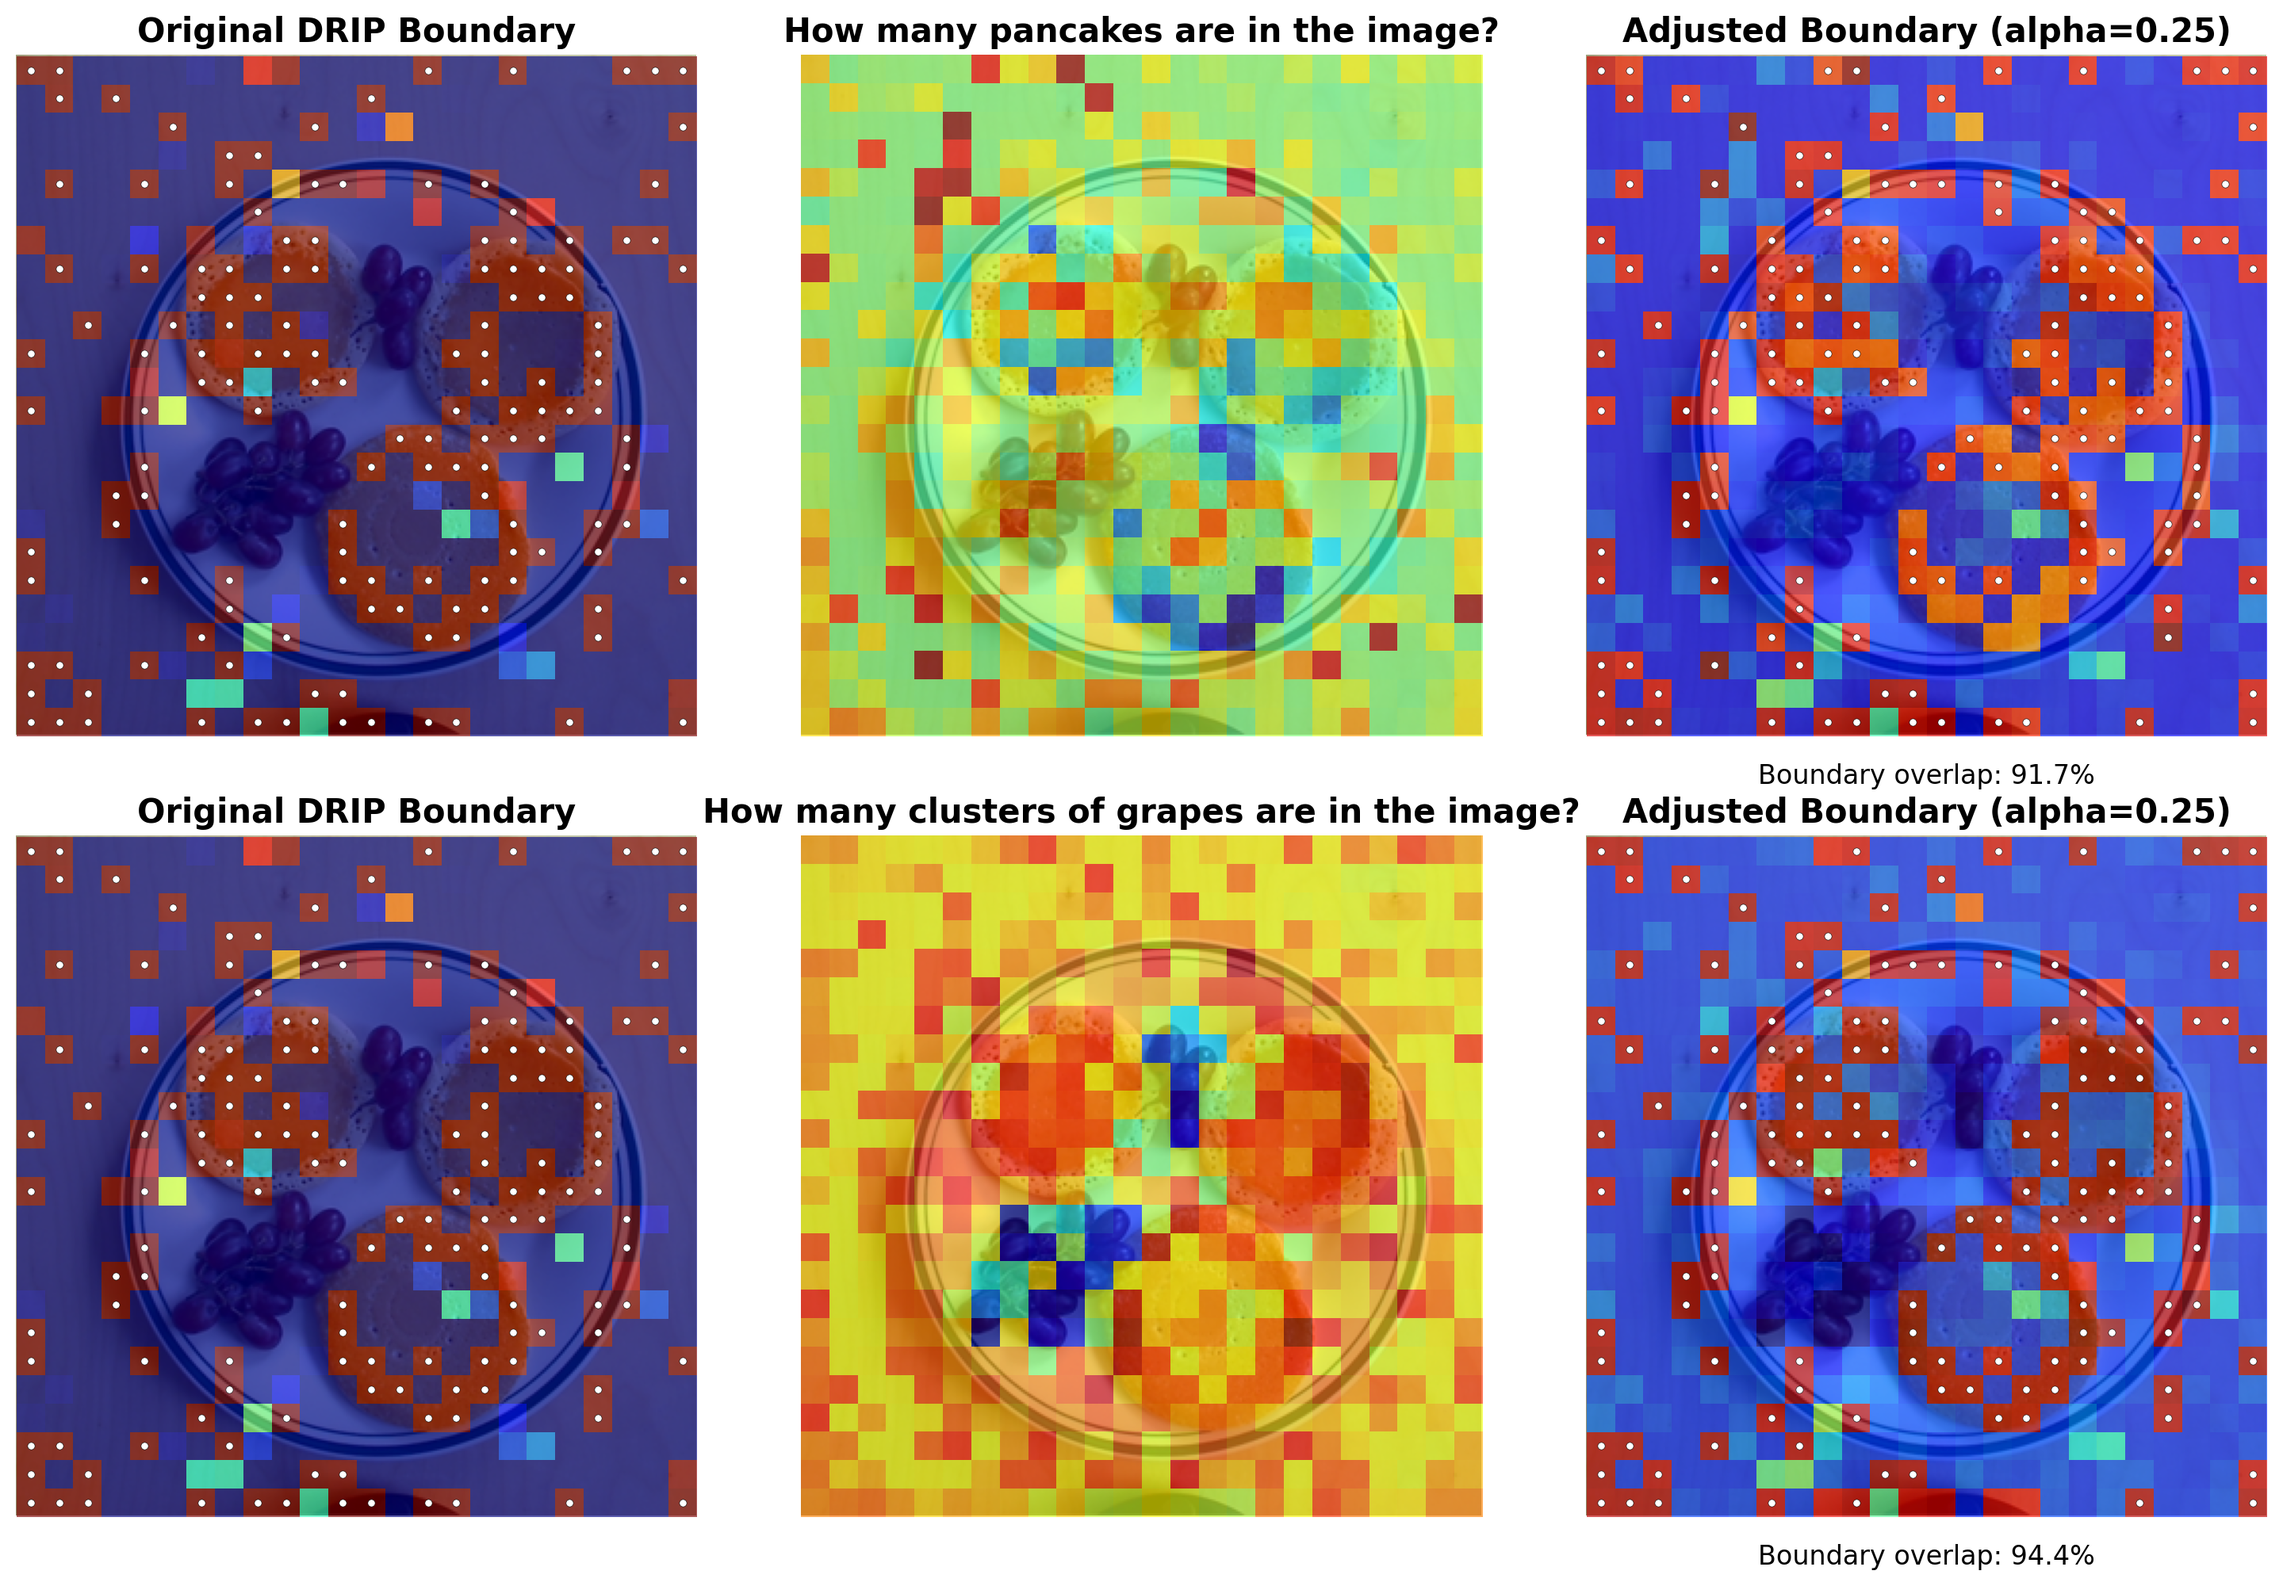
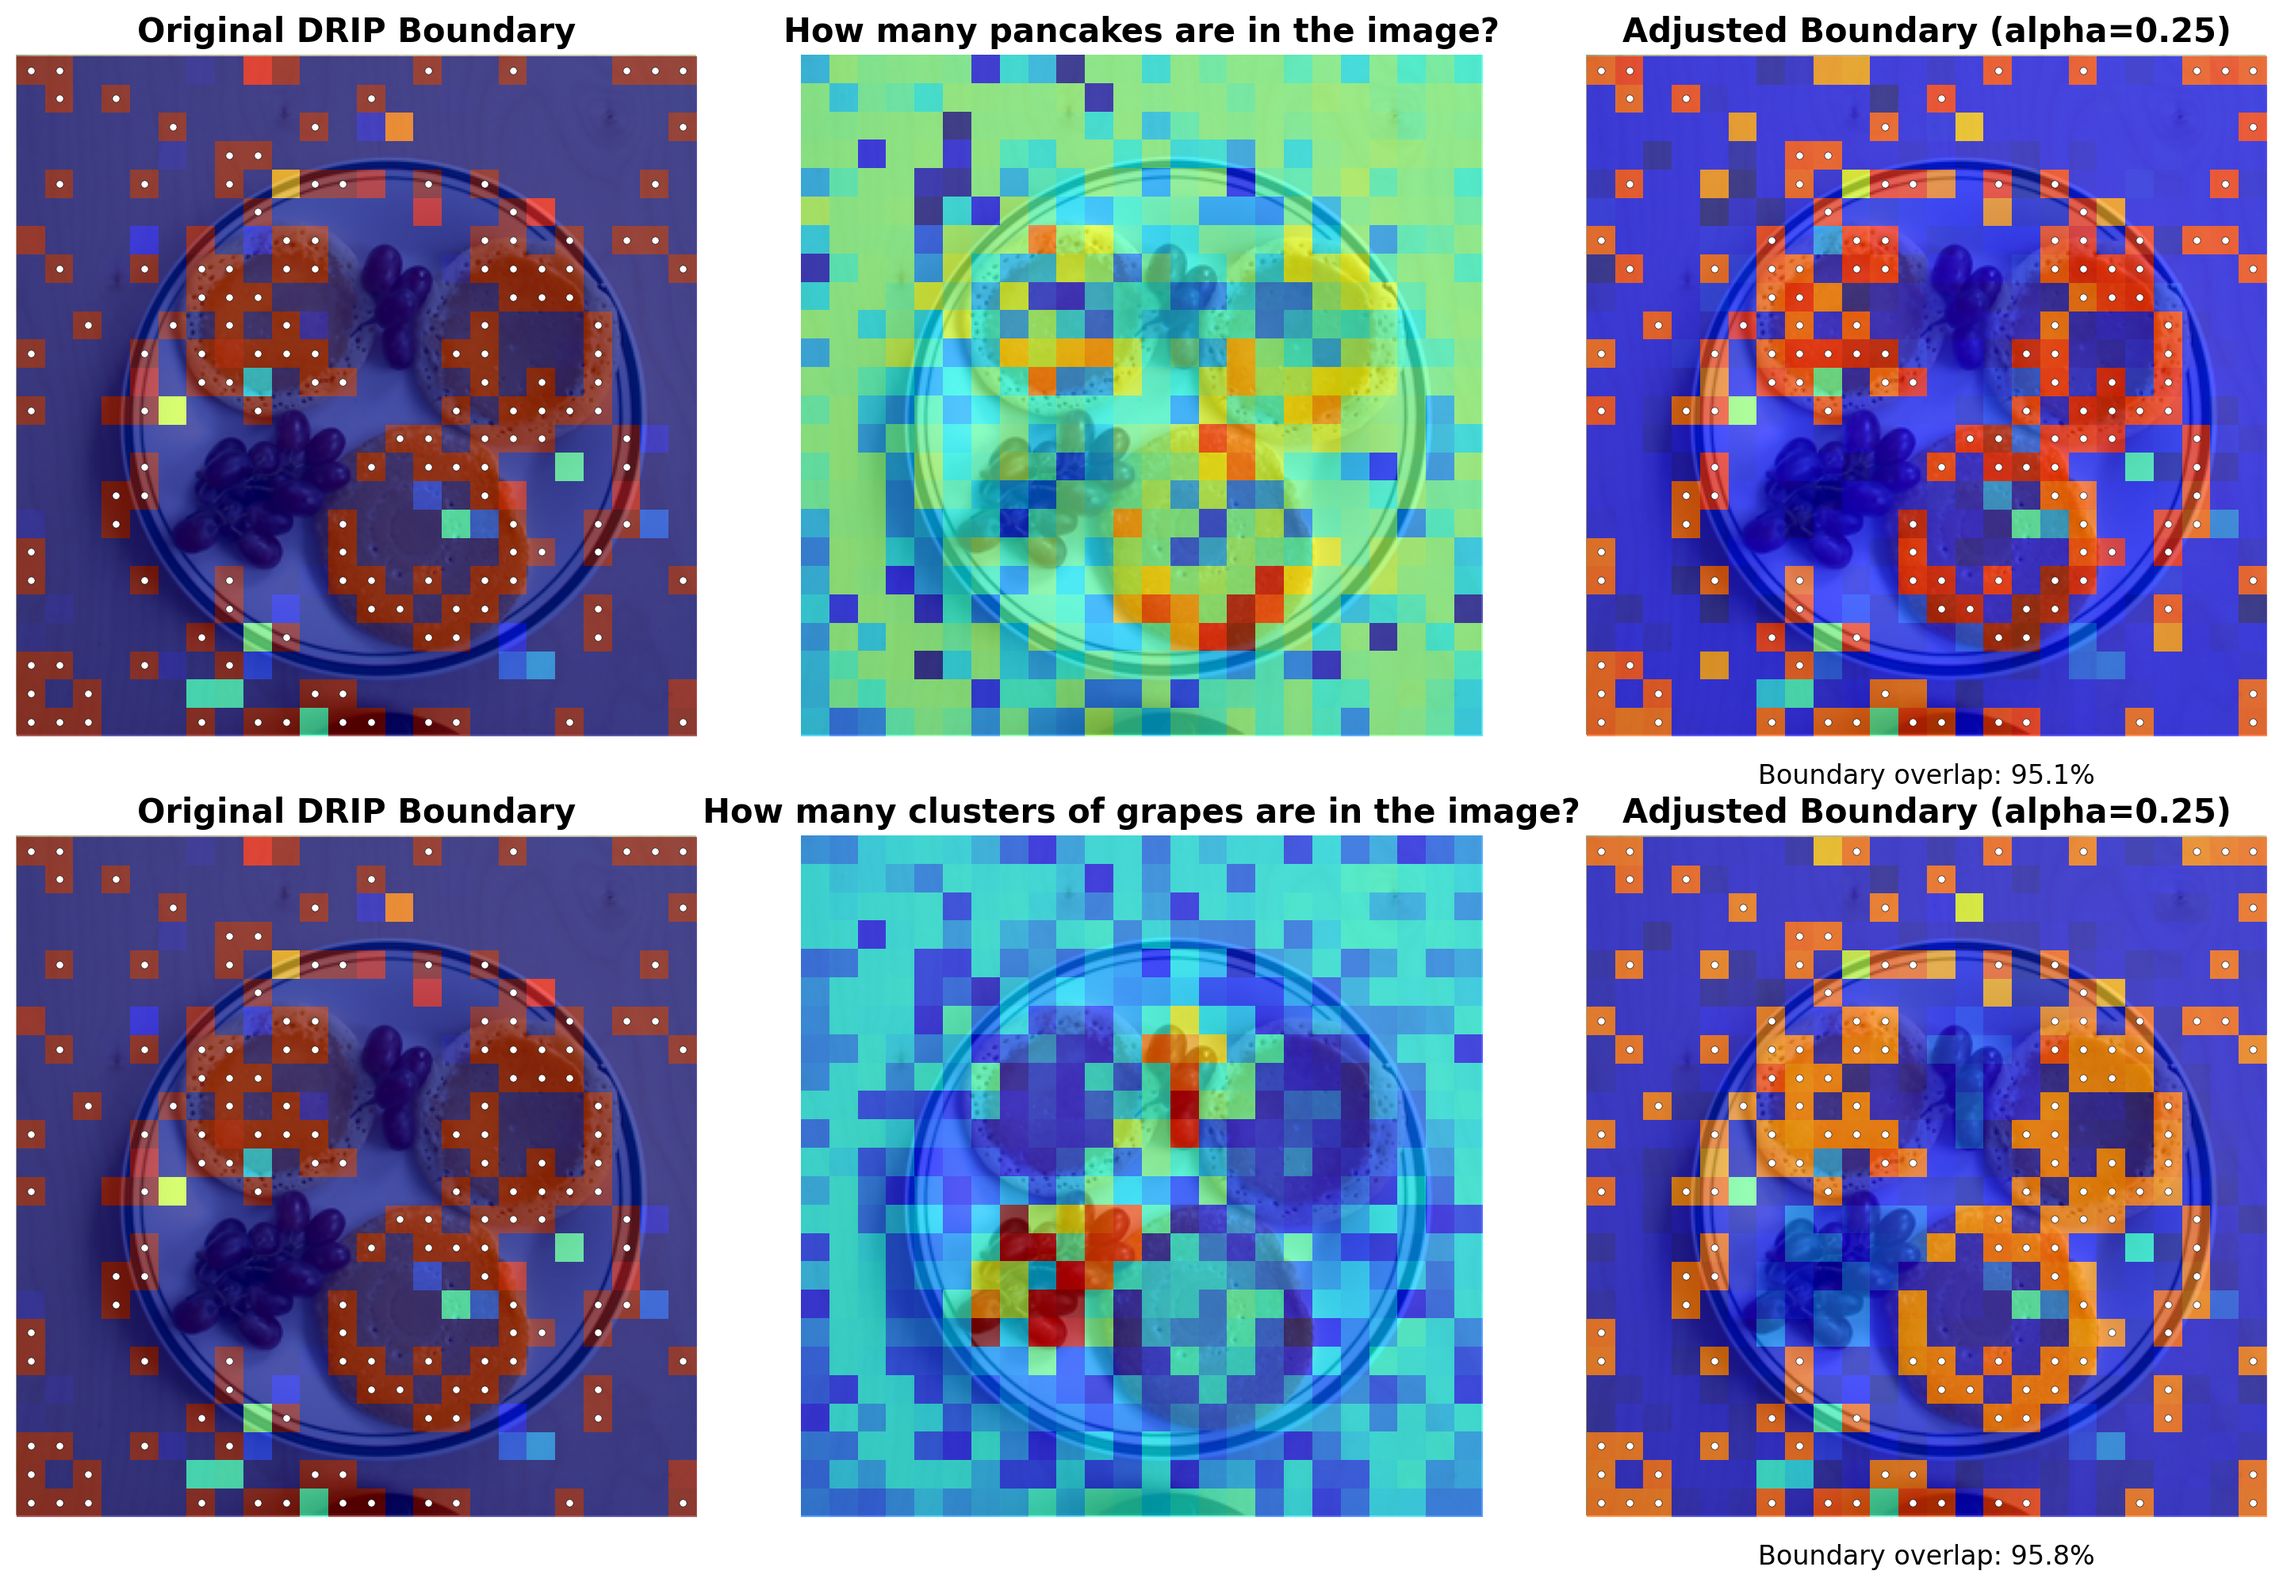
evaluated CDPruner on Qwen3VL

diff --git a/src/LLaVA_wrapper/llava_local/model/multimodal_encoder/clip_encoder.py b/src/LLaVA_wrapper/llava_local/model/multimodal_encoder/clip_encoder.py
@@ -186,13 +186,15 @@ class CLIPVisionTower(nn.Module):
         image_embeds = visual_projection(image_embeds)
         image_embeds = F.normalize(image_embeds.float(), p=2, dim=-1) # [B, N, C]
         text_embeds = F.normalize(text_embeds.to(device=image_embeds.device, dtype=torch.float32), p=2, dim=-1) # [B, C]
-        relevance = torch.einsum("bnc,bc->bn", image_embeds, text_embeds) # [B, N]
+
+        # NOTE: we also follow the negation operation in CDPruner
+        # relevance = torch.einsum("bnc,bc->bn", image_embeds, text_embeds) # [B, N]
+        relevance = -torch.einsum("bnc,bc->bn", image_embeds, text_embeds)
 
         # Min-max normalization
         r_min = relevance.min(dim=-1, keepdim=True).values
         r_max = relevance.max(dim=-1, keepdim=True).values
         relevance = (relevance - r_min) / (r_max - r_min).clamp_min(1e-6)
-        # TODO: maybe we can also follow the negation operation in CDPruner?
         return relevance
 
     @torch.no_grad()

diff --git a/src/LLaVA_wrapper/llava_local/model/multimodal_encoder/builder.py b/src/LLaVA_wrapper/llava_local/model/multimodal_encoder/builder.py
@@ -24,7 +24,7 @@ def build_vision_tower(vision_tower_cfg, **kwargs):
 
 
     MERGE_STRATEGY = "DRIP++"
-    RELEVANCE_ALPHA = 0.1
+    RELEVANCE_ALPHA = 0.25
     # main result: 2x - 0.5, 4x - 0.25, 8x - 0.125, 10x - 0.1
     # limit test: 20x - 0.05, 100x - 0.01, 500x - 0.002
     COMPRESSION_RATE = 0.25
